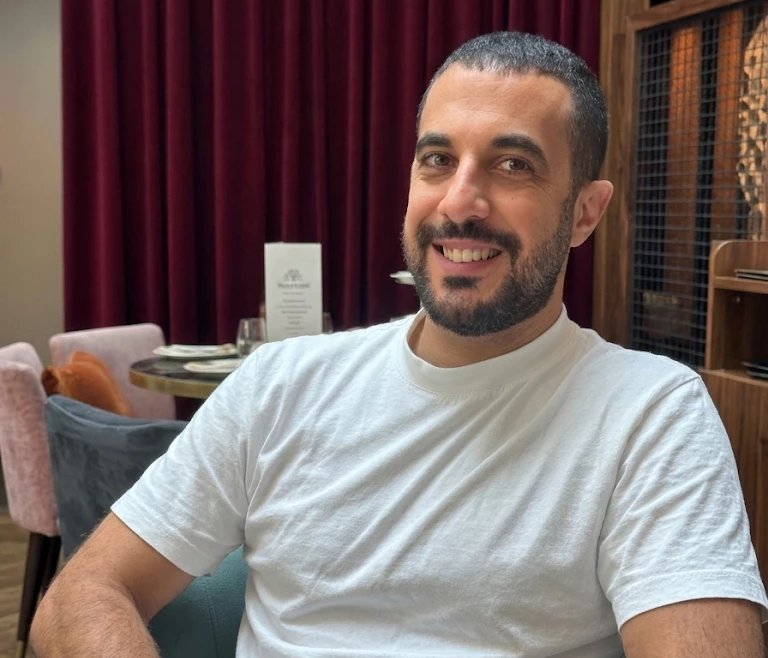
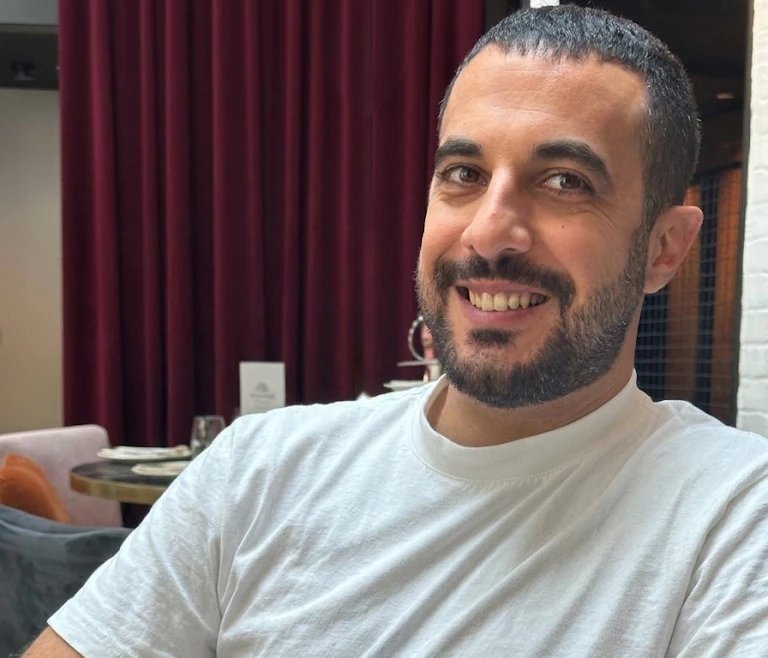
Hero photo: original shot with the balloon removed
Claude-Session: https://claude.ai/code/session_018c7zYVCbJhDgM53psf5QD9

diff --git a/index.html b/index.html
@@ -9,7 +9,7 @@
   <link rel="preconnect" href="https://fonts.googleapis.com">
   <link rel="preconnect" href="https://fonts.gstatic.com" crossorigin>
   <link href="https://fonts.googleapis.com/css2?family=Rubik:wght@700;800;900&family=Heebo:wght@400;500;700&display=swap" rel="stylesheet">
-  <link rel="stylesheet" href="styles.css?v=10">
+  <link rel="stylesheet" href="styles.css?v=11">
 </head>
 <body>
   <div class="preview-bar" id="previewBar" hidden>
@@ -334,8 +334,8 @@
 
   <div class="toast" id="toast" role="status" hidden></div>
 
-  <script src="config.js?v=10"></script>
-  <script src="api.js?v=10"></script>
-  <script src="app.js?v=10"></script>
+  <script src="config.js?v=11"></script>
+  <script src="api.js?v=11"></script>
+  <script src="app.js?v=11"></script>
 </body>
 </html>

diff --git a/admin.html b/admin.html
@@ -9,7 +9,7 @@
   <link rel="preconnect" href="https://fonts.googleapis.com">
   <link rel="preconnect" href="https://fonts.gstatic.com" crossorigin>
   <link href="https://fonts.googleapis.com/css2?family=Rubik:wght@700;800;900&family=Heebo:wght@400;500;700&display=swap" rel="stylesheet">
-  <link rel="stylesheet" href="styles.css?v=10">
+  <link rel="stylesheet" href="styles.css?v=11">
 </head>
 <body class="admin">
   <header class="hero small">
@@ -64,8 +64,8 @@
     </div>
   </div>
 
-  <script src="config.js?v=10"></script>
-  <script src="api.js?v=10"></script>
-  <script src="admin.js?v=10"></script>
+  <script src="config.js?v=11"></script>
+  <script src="api.js?v=11"></script>
+  <script src="admin.js?v=11"></script>
 </body>
 </html>

diff --git a/app.js b/app.js
@@ -68,7 +68,7 @@
     const img = new Image();
     img.alt = 'טלאור';
     img.onload = () => { $('heroPhoto').prepend(img); $('heroPhoto').classList.add('has-photo'); };
-    img.src = CFG.HERO_IMAGE + '?v=3';
+    img.src = CFG.HERO_IMAGE + '?v=4';
 
     if (PREVIEW) {
       openPreview();
